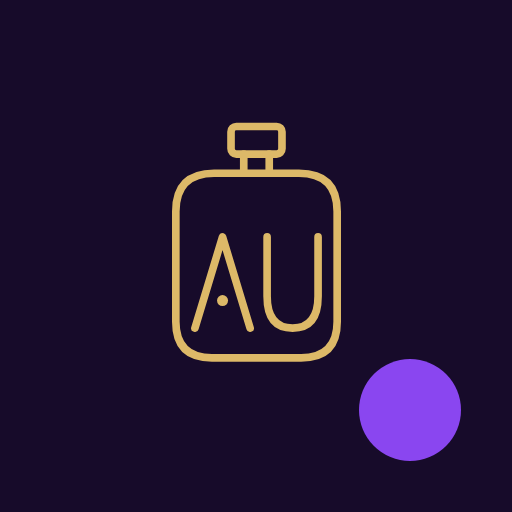
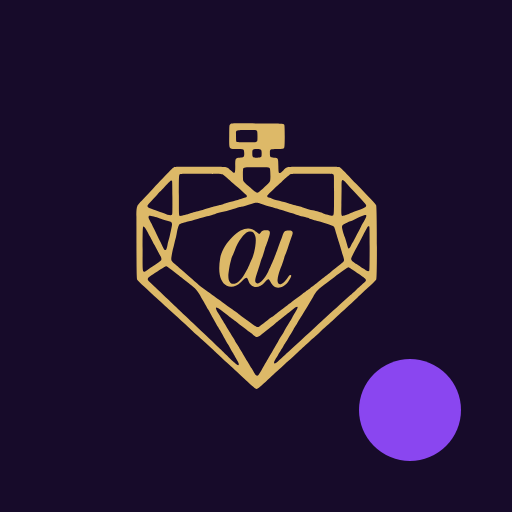
Add files via upload

Changed region(s): [[0.25, 0.2188, 0.75, 0.75]]

diff --git a/js/admin.js b/js/admin.js
@@ -441,7 +441,7 @@ ${filas.join(',\n')}
 
   // ---------- apariencia (modelo, colores, letras) ----------
   const dlgAp = $('#hoja-apariencia'), pv = $('#ap-prev');
-  const CAB_AJ = '// =========================================================\n// ajustes.js · Apariencia de la tienda (AU Originals)\n// Lo actualiza el panel admin.html (botón de paleta) y también se puede editar a mano.\n//  - modelo:   "sello" | "centrado" | "compacto"\n//  - paleta:   "violeta" | "medianoche" | "rosa" | "esmeralda" | "negro-oro" | "marfil" | "personalizada"\n//  - colores:  solo si paleta = "personalizada": { fondo, texto, acento, acento2 }\n//  - fuenteTitulos / fuenteTexto: nombre de una fuente de Google Fonts (ver js/tema.js)\n//  - mostrar:  { carrusel, casas, datos }   ·   textos: { eyebrow, lead }\n// =========================================================\n';
+  const CAB_AJ = '// =========================================================\n// ajustes.js · Apariencia de la tienda (AU Originals)\n// Lo actualiza el panel admin.html (botón de paleta) y también se puede editar a mano.\n//  - modelo:   "sello" | "centrado" | "compacto"\n//  - logo:     "emblema" | "circulo" | "monograma" | "frasco"\n//  - paleta:   "violeta" | "medianoche" | "rosa" | "esmeralda" | "negro-oro" | "marfil" | "personalizada"\n//  - colores:  solo si paleta = "personalizada": { fondo, texto, acento, acento2 }\n//  - fuenteTitulos / fuenteTexto: nombre de una fuente de Google Fonts (ver js/tema.js)\n//  - mostrar:  { carrusel, casas, datos }   ·   textos: { eyebrow, lead }\n// =========================================================\n';
   let ap = null, apInicial = null;
   const copia = o => JSON.parse(JSON.stringify(o));
   const publicadoAj = () => TEMA.fusionar(typeof AJUSTES !== 'undefined' ? copia(AJUSTES) : {});
@@ -455,6 +455,7 @@ ${filas.join(',\n')}
   function colorBase() { const p = TEMA.PALETAS[ap.paleta] || TEMA.PALETAS.violeta; return { fondo: p.bg, texto: p.fg, acento: p.a, acento2: p.b }; }
   function pintarControles() {
     $('#ap-modelos').innerHTML = Object.keys(TEMA.MODELOS).map(k => `<button type="button" class="ap-modelo" role="radio" data-modelo="${k}" aria-checked="${ap.modelo === k}"><b>${esc(TEMA.MODELOS[k].nombre)}</b><span>${esc(TEMA.MODELOS[k].desc)}</span></button>`).join('');
+    $('#ap-logos').innerHTML = Object.keys(TEMA.LOGOS).map(k => `<button type="button" class="ap-logo" role="radio" data-logo="${k}" aria-checked="${ap.logo === k}"><i style="-webkit-mask-image:url(${TEMA.LOGOS[k].img});mask-image:url(${TEMA.LOGOS[k].img})"></i><b>${esc(TEMA.LOGOS[k].nombre)}</b></button>`).join('');
     const pal = Object.keys(TEMA.PALETAS).map(k => { const p = TEMA.PALETAS[k]; return `<button type="button" class="ap-paleta" role="radio" data-paleta="${k}" aria-checked="${ap.paleta === k}"><i style="background:linear-gradient(90deg,${p.bg} 0 34%,${p.b} 34% 56%,${p.a} 56% 78%,${p.fg} 78%)"></i>${esc(p.nombre)}</button>`; });
     const c = ap.colores || {};
     pal.push(`<button type="button" class="ap-paleta" role="radio" data-paleta="personalizada" aria-checked="${ap.paleta === 'personalizada'}"><i style="background:linear-gradient(90deg,${c.fondo || '#222'} 0 34%,${c.acento2 || '#888'} 34% 56%,${c.acento || '#ccc'} 56% 78%,${c.texto || '#fff'} 78%)"></i>Personalizada</button>`);
@@ -485,6 +486,7 @@ ${filas.join(',\n')}
   }
   $('#btn-apariencia').addEventListener('click', abrirApariencia);
   $('#ap-modelos').addEventListener('click', e => { const b = e.target.closest('[data-modelo]'); if (!b) return; ap.modelo = b.dataset.modelo; pintarControles(); vistaPrevia(); });
+  $('#ap-logos').addEventListener('click', e => { const b = e.target.closest('[data-logo]'); if (!b) return; ap.logo = b.dataset.logo; pintarControles(); vistaPrevia(); });
   $('#ap-paletas').addEventListener('click', e => {
     const b = e.target.closest('[data-paleta]'); if (!b) return;
     if (b.dataset.paleta === 'personalizada' && ap.paleta !== 'personalizada') ap.colores = Object.assign(colorBase(), ap.colores || {});
@@ -499,7 +501,7 @@ ${filas.join(',\n')}
   $('#ap-reset').addEventListener('click', () => { ap = copia(apInicial || TEMA.fusionar({})); pintarControles(); vistaPrevia(); toast('Se restauró lo que está publicado'); });
 
   function ajustesLimpios() {
-    const o = { modelo: ap.modelo, paleta: ap.paleta, colores: ap.paleta === 'personalizada' ? ap.colores : {}, fuenteTitulos: ap.fuenteTitulos, fuenteTexto: ap.fuenteTexto,
+    const o = { modelo: ap.modelo, logo: ap.logo, paleta: ap.paleta, colores: ap.paleta === 'personalizada' ? ap.colores : {}, fuenteTitulos: ap.fuenteTitulos, fuenteTexto: ap.fuenteTexto,
       mostrar: { carrusel: ap.mostrar.carrusel !== false, casas: ap.mostrar.casas !== false, datos: ap.mostrar.datos !== false },
       textos: { eyebrow: String(ap.textos.eyebrow || '').trim(), lead: String(ap.textos.lead || '').trim() } };
     return o;

diff --git a/js/tema.js b/js/tema.js
@@ -34,7 +34,13 @@
     'centrado': { nombre: 'Centrado', desc: 'Todo centrado: logo arriba y textos al medio. Muy elegante en el teléfono.' },
     'compacto': { nombre: 'Compacto', desc: 'Portada corta para que el catálogo se vea enseguida.' },
   };
-  const DEFECTO = { modelo: 'sello', paleta: 'violeta', colores: {}, fuenteTitulos: 'Roboto', fuenteTexto: 'Roboto',
+  const LOGOS = {
+    'emblema':   { nombre: 'Emblema',   desc: 'El frasco-corazón del Instagram con la "au" en cursiva.', img: 'images/logos/emblema.svg' },
+    'circulo':   { nombre: 'Círculo',   desc: 'El emblema dentro de un doble anillo.',                    img: 'images/logos/circulo.svg' },
+    'monograma': { nombre: 'Monograma', desc: 'Solo la "au" grande dentro de un rombo.',                  img: 'images/logos/monograma.svg' },
+    'frasco':    { nombre: 'Frasco',    desc: 'El diseño anterior (frasco con letras AU).',               img: 'images/logos/frasco.svg' },
+  };
+  const DEFECTO = { modelo: 'sello', logo: 'emblema', paleta: 'violeta', colores: {}, fuenteTitulos: 'Roboto', fuenteTexto: 'Roboto',
     mostrar: { carrusel: true, casas: true, datos: true }, textos: { eyebrow: '', lead: '' } };
   const fusionar = aj => { aj = aj || {}; const r = Object.assign({}, DEFECTO, aj); r.mostrar = Object.assign({}, DEFECTO.mostrar, aj.mostrar); r.textos = Object.assign({}, DEFECTO.textos, aj.textos); r.colores = aj.colores || {}; return r; };
 
@@ -68,6 +74,7 @@
       '--accent-rgb': rgb(p.a), '--second-rgb': rgb(p.b), '--lav-rgb': rgb(p.c), '--bg-rgb': rgb(p.bg), '--surface-rgb': rgb(mezcla(p.bg, p.fg, .085)), '--fg-rgb': rgb(p.fg),
       '--ped-1': mezcla('#FFFFFF', p.c, .05), '--ped-2': mezcla('#FFFFFF', p.c, .3), '--ped-3': mezcla('#FFFFFF', p.c, .55),
       '--ped-ink': mezcla(p.b, '#000000', .45), '--ped-ink-rgb': rgb(mezcla(p.b, '#000000', .45)),
+      '--logo-img': 'url("../' + (LOGOS[aj.logo] || LOGOS.emblema).img + '")',  // relativa a css/styles.css
       '--f-display': fam(aj.fuenteTitulos), '--f-sans': fam(aj.fuenteTexto),
     };
     return { vars: v, claro: claro, bg: p.bg };
@@ -86,6 +93,7 @@
     if (!st) { st = document.createElement('style'); st.id = 'tema-vars'; document.head.appendChild(st); }
     st.textContent = 'html:root{color-scheme:' + (r.claro ? 'light' : 'dark') + ';' + Object.keys(r.vars).map(k => k + ':' + r.vars[k]).join(';') + '}';
     el.dataset.modelo = MODELOS[aj.modelo] ? aj.modelo : 'sello';
+    el.dataset.logo = LOGOS[aj.logo] ? aj.logo : 'emblema';
     el.dataset.ocultar = Object.keys(aj.mostrar).filter(k => aj.mostrar[k] === false).join(' ');
     const poner = () => ['eyebrow', 'lead'].forEach(k => { const n = document.querySelector('[data-t="' + k + '"]'); if (!n) return; if (n.dataset.orig == null) n.dataset.orig = n.textContent; n.textContent = String(aj.textos[k] || '').trim() || n.dataset.orig; });
     if (document.readyState === 'loading') document.addEventListener('DOMContentLoaded', poner); else poner();
@@ -98,7 +106,7 @@
     return r;
   }
 
-  window.TEMA = { FUENTES, PALETAS, MODELOS, DEFECTO, fusionar, variables, urlFuentes, aplicar };
+  window.TEMA = { FUENTES, PALETAS, MODELOS, LOGOS, DEFECTO, fusionar, variables, urlFuentes, aplicar };
 
   if (document.documentElement.dataset.temaAuto !== 'no') {
     let aj = typeof AJUSTES !== 'undefined' ? AJUSTES : {};

diff --git a/admin.html b/admin.html
@@ -12,13 +12,13 @@
 <link rel="preconnect" href="https://fonts.googleapis.com">
 <link rel="preconnect" href="https://fonts.gstatic.com" crossorigin>
 <link href="https://fonts.googleapis.com/css2?family=Bodoni+Moda:ital,opsz,wght@0,6..96,400;0,6..96,500;1,6..96,400&family=Jost:wght@300;400;500&display=swap" rel="stylesheet">
-<link rel="stylesheet" href="css/admin.css?v=1.3">
+<link rel="stylesheet" href="css/admin.css?v=1.4">
 </head>
 <body>
 
 <header class="top">
   <div class="top-in">
-    <div class="tit"><span aria-hidden="true" style="display:inline-block;width:24px;height:26px;margin-right:9px;vertical-align:middle;background:var(--gold);-webkit-mask:url(images/logo.svg) center/contain no-repeat;mask:url(images/logo.svg) center/contain no-repeat"></span><b>AU</b><span>Admin</span></div>
+    <div class="tit"><span aria-hidden="true" style="display:inline-block;width:24px;height:26px;margin-right:9px;vertical-align:middle;background:var(--gold);-webkit-mask:url(images/logos/emblema.svg) center/contain no-repeat;mask:url(images/logos/emblema.svg) center/contain no-repeat"></span><b>AU</b><span>Admin</span></div>
     <button class="estado" id="estado" type="button" data-modo="local" aria-label="Estado de la conexión">Solo vista</button>
     <a class="ib" id="ver-sitio" href="./" target="_blank" rel="noopener" aria-label="Ver la tienda pública">
       <svg viewBox="0 0 24 24"><path d="M14 4h6v6M20 4l-9 9M18 14v5a1 1 0 0 1-1 1H5a1 1 0 0 1-1-1V7a1 1 0 0 1 1-1h5"/></svg>
@@ -117,6 +117,9 @@
     <h3 class="ap-h">Modelo de página</h3>
     <div class="ap-modelos" id="ap-modelos" role="radiogroup" aria-label="Modelo de página"></div>
 
+    <h3 class="ap-h">Logo</h3>
+    <div class="ap-logos" id="ap-logos" role="radiogroup" aria-label="Logo de la página"></div>
+
     <h3 class="ap-h">Colores</h3>
     <div class="ap-paletas" id="ap-paletas" role="radiogroup" aria-label="Combinación de colores"></div>
     <div class="ap-custom" id="ap-custom" hidden>
@@ -211,6 +214,6 @@
 <script src="ajustes.js"></script>
 <script src="js/tema.js"></script>
 <script src="js/frascos.js?v=2.1"></script>
-<script src="js/admin.js?v=1.3"></script>
+<script src="js/admin.js?v=1.4"></script>
 </body>
 </html>

diff --git a/css/styles.css b/css/styles.css
@@ -380,7 +380,7 @@ em{font-style:italic}
    v3 · Violeta: logo y detalles tomados del Instagram
    ========================================================= */
 .marca{flex-direction:row;gap:12px;align-items:center}
-.logo-mark{display:inline-block;background:var(--gold);-webkit-mask:url(../images/logo.svg) center/contain no-repeat;mask:url(../images/logo.svg) center/contain no-repeat}
+.logo-mark{display:inline-block;background:var(--gold);-webkit-mask:var(--logo-img,url(../images/logos/emblema.svg)) center/contain no-repeat;mask:var(--logo-img,url(../images/logos/emblema.svg)) center/contain no-repeat}
 .marca-logo{width:34px;height:37px;flex:none;filter:drop-shadow(0 0 12px rgba(var(--second-rgb),.6))}
 .marca-txt{display:flex;flex-direction:column;align-items:flex-start;line-height:1}
 .marca-txt .marca-au{padding-left:0}
@@ -460,3 +460,8 @@ html[data-modelo="compacto"] .seccion{padding-block:64px}
 
 /* Elementos que se pueden ocultar desde el panel admin */
 html[data-ocultar~="carrusel"] #destacados,html[data-ocultar~="casas"] .casas,html[data-ocultar~="datos"] .hero-datos{display:none}
+
+/* logo elegido: los redondos necesitan más tamaño en la portada */
+html[data-logo="circulo"] .sello-logo{width:52%;aspect-ratio:1}
+html[data-logo="monograma"] .sello-logo{width:44%;aspect-ratio:1}
+html[data-logo="emblema"] .sello-logo{width:40%}

diff --git a/css/admin.css b/css/admin.css
@@ -150,3 +150,10 @@ svg{width:20px;height:20px;stroke:currentColor;fill:none;stroke-width:1.5;stroke
 .ap-checks{display:grid;gap:10px;margin-bottom:12px}
 .campos textarea{width:100%;min-width:0;border:1px solid var(--line-strong);background:var(--bg-2);border-radius:10px;padding:10px 12px;font-size:16px;letter-spacing:0;text-transform:none;color:var(--fg);outline:none;font-family:inherit;resize:vertical}
 .ap-pie .btn{padding:0 10px}
+
+/* v1.4 · selector de logo */
+.ap-logos{display:grid;grid-template-columns:repeat(4,1fr);gap:8px}
+.ap-logo{display:flex;flex-direction:column;align-items:center;gap:8px;border:1px solid var(--line-strong);border-radius:10px;padding:12px 4px 9px;background:none;color:var(--fg);cursor:pointer;font:inherit}
+.ap-logo i{display:block;width:44px;height:48px;background:var(--gold);-webkit-mask:center/contain no-repeat;mask:center/contain no-repeat}
+.ap-logo b{font-weight:400;font-size:12px}
+.ap-logo[aria-checked="true"]{border-color:var(--gold);box-shadow:0 0 0 1px var(--gold) inset}

diff --git a/ajustes.js b/ajustes.js
@@ -2,8 +2,9 @@
 // ajustes.js · Apariencia de la tienda (AU Originals)
 // Lo actualiza el panel admin.html (botón de paleta) y también se puede editar a mano.
 //  - modelo:   "sello" | "centrado" | "compacto"
+//  - logo:     "emblema" | "circulo" | "monograma" | "frasco"
 //  - paleta:   "violeta" | "medianoche" | "rosa" | "esmeralda" | "negro-oro" | "marfil" | "personalizada"
 //  - colores:  solo si paleta = "personalizada": { fondo, texto, acento, acento2 }
 //  - fuenteTitulos / fuenteTexto: nombre de una fuente de Google Fonts (ver js/tema.js)
 // =========================================================
-const AJUSTES = {"modelo":"sello","paleta":"violeta","colores":{},"fuenteTitulos":"Roboto","fuenteTexto":"Roboto"};
+const AJUSTES = {"modelo":"sello","logo":"emblema","paleta":"violeta","colores":{},"fuenteTitulos":"Roboto","fuenteTexto":"Roboto"};

diff --git a/sw.js b/sw.js
@@ -3,7 +3,7 @@
 // Cada vez que subas cambios (precios, catálogo, diseño), sube este número
 // para que los clientes reciban la versión nueva enseguida.
 // =========================================================
-const CACHE_NAME = "au-originals-v4.0";
+const CACHE_NAME = "au-originals-v4.1";
 
 const FILES_TO_CACHE = [
   "./",
@@ -15,7 +15,10 @@ const FILES_TO_CACHE = [
   "js/app.js",
   "manifest.json",
   "icon-192.png",
-  "images/logo.svg",
+  "images/logos/emblema.svg",
+  "images/logos/circulo.svg",
+  "images/logos/monograma.svg",
+  "images/logos/frasco.svg",
   "ajustes.js",
   "js/tema.js",
   "icon-512.png"

diff --git a/index.html b/index.html
@@ -22,7 +22,7 @@
 <link rel="apple-touch-icon" href="icon-192.png">
 <link rel="preconnect" href="https://fonts.googleapis.com">
 <link rel="preconnect" href="https://fonts.gstatic.com" crossorigin>
-<link rel="stylesheet" href="css/styles.css?v=4.0">
+<link rel="stylesheet" href="css/styles.css?v=4.1">
 </head>
 <body>
 
@@ -313,6 +313,6 @@
 <script src="config.js?v=2.1"></script>
 <script src="catalogo.js?v=2.1"></script>
 <script src="js/frascos.js?v=2.1"></script>
-<script src="js/app.js?v=4.0"></script>
+<script src="js/app.js?v=4.1"></script>
 </body>
 </html>

diff --git a/README.md b/README.md
@@ -104,6 +104,8 @@ Para probar sin publicar: `index.html?vista={"paleta":"rosa","modelo":"centrado"
 
 ## Logo y estilo
 
+El logo se elige en **admin → Apariencia → Logo** (emblema, círculo, monograma o frasco), o a mano con `"logo"` en `ajustes.js`. Los archivos están en `images/logos/`.
+
 - El logo es `images/logo.svg`: un frasco con las letras AU, de **un solo color** (toma el color de acento de la paleta elegida).
   Para cambiarlo, reemplaza ese archivo por otro SVG de una sola forma/color (cualquier color, solo se usa su silueta).
 - Los íconos de la app (`icon-*.png`) y `images/og-image.jpg` se generaron con ese mismo logo.
